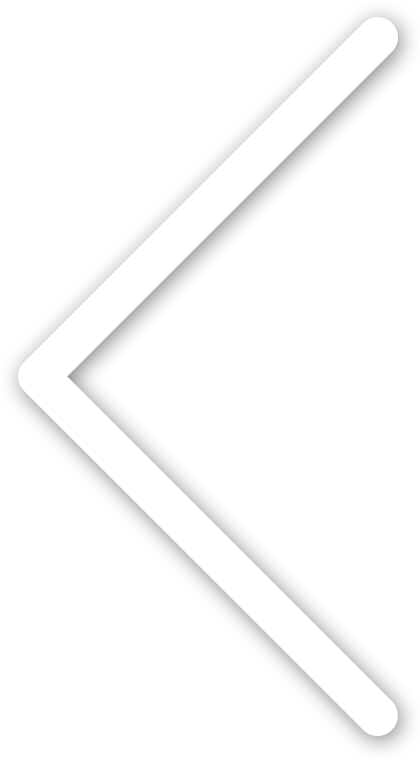
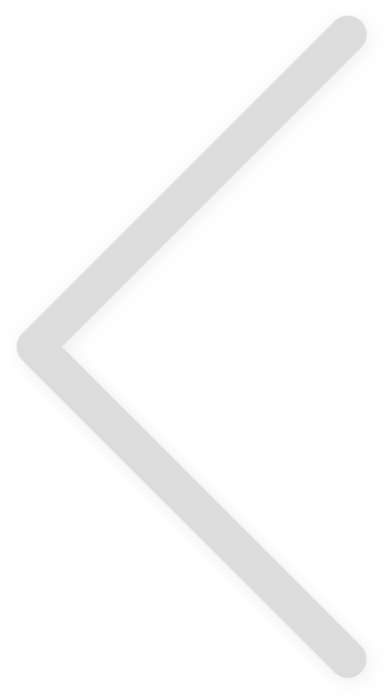
m

Changed region(s): [[0.0312, 0.0, 0.9662, 0.99]]

diff --git a/Admin/admin.js b/Admin/admin.js
@@ -41,19 +41,32 @@ addEventListener("DOMContentLoaded", () => {
             document.getElementById('imagePrev').src = document.getElementsByClassName('imageOpt')[i].src;
         }
     }
-    document.getElementById('imgandtog').onmouseenter = () => {
+    document.getElementById('imgprevdiv').onmouseenter = () => {
         for (let i = 0; i < 2; i++) {
             document.getElementsByClassName('imgToggle')[i].style.visibility = 'visible'
             document.getElementsByClassName('imgToggle')[i].animate([{ opacity: '0' }, { opacity: '1' }], 400)
             document.getElementsByClassName('imgToggle')[i].style.opacity = '1'
         }
     }
-    document.getElementById('imgandtog').onmouseleave = () => {
+    document.getElementById('imgprevdiv').onmouseleave = () => {
         for (let i = 0; i < 2; i++) {
             document.getElementsByClassName('imgToggle')[i].animate([{ opacity: '1' }, { opacity: '0' }], 300)
             document.getElementsByClassName('imgToggle')[i].style.opacity = '0'
         }
     }
+    for (let i = 0; i < 2; i++) {
+        document.getElementsByClassName('imgToggle')[i].onmouseenter = () => {
+            document.getElementsByClassName('imgToggle')[0].style.visibility = 'visible'
+            document.getElementsByClassName('imgToggle')[1].style.visibility = 'visible'
+            document.getElementsByClassName('arrows')[0].src = '../data/leftwh.png'
+            document.getElementsByClassName('arrows')[1].src = '../data/rightwh.png'
+        }
+        document.getElementsByClassName('imgToggle')[i].onmouseleave = () => {
+            document.getElementsByClassName('arrows')[0].src = '../data/left.png'
+            document.getElementsByClassName('arrows')[1].src = '../data/right.png'
+        }
+    }
+    
     document.getElementsByClassName('imgToggle')[0].onclick = function () {
         for (let i = 0; i < imgCounter + 1; i++) {
             if (document.getElementsByClassName('imageOptbut')[i].style.borderWidth == '2px' && i > 0) {

diff --git a/Admin/admin.css b/Admin/admin.css
@@ -109,28 +109,7 @@
 #addProdbut:hover {
     background-color: rgb(55, 105, 255);
 }
-#descPrevtab {
-    margin-left: 700px;
-    line-height: 23px;
-    font-family: sans-serif;
-    color: rgb(50, 50, 50);
-    position: absolute;
-    font-family: -apple-system, BlinkMacSystemFont, 'Segoe UI', Roboto, Oxygen, Ubuntu, Cantarell, 'Open Sans', 'Helvetica Neue', sans-serif;
-}
-.imageOptbut {
-    background-color: transparent;
-    border: solid black 1px;
-    border-radius: 3px;
-    padding: 5px;
-    height: 58px;
-    cursor: pointer;
-    margin-left: 80px;
-    margin-top: 20px;
-    visibility: hidden;
-}
-.imageOpt {
-    width: 45px;
-}
+
 #imagePrev {
     margin-left: 200px;
     margin-top: 150px;
@@ -150,9 +129,28 @@
 .imgToggle:hover {
     color: rgb(170, 170, 170)
 }
-.infotd {
-    padding-left: 150px;
-    padding-right: 150px;
+.imageOptbut {
+    background-color: transparent;
+    border: solid black 1px;
+    border-radius: 3px;
+    padding: 5px;
+    height: 58px;
+    cursor: pointer;
+    margin-left: 80px;
+    margin-top: 20px;
+    visibility: hidden;
+}
+.imageOpt {
+    width: 45px;
+}
+#descPrevtab {
+    margin-left: 850px;
+    margin-right: 150px;
+    line-height: 23px;
+    font-family: sans-serif;
+    color: rgb(50, 50, 50);
+    position: absolute;
+    font-family: -apple-system, BlinkMacSystemFont, 'Segoe UI', Roboto, Oxygen, Ubuntu, Cantarell, 'Open Sans', 'Helvetica Neue', sans-serif;
 }
 #headerPrev {
     font-weight: 500;
@@ -174,7 +172,6 @@
     background-color: transparent;
     border: solid black 1px;
     cursor: pointer;
-    margin-left: 20px;
 }
 .buybut {
     background-color: rgb(40, 90, 255);
@@ -192,11 +189,11 @@
     background-color: rgb(55, 105, 255);
 }
 #orderbut {
-    margin-top: 100px;
-    margin-left: 220px;
+    margin-top: 90px;
+    margin-left: 110px;
 }
 #addcartbut {
-    margin-top: 100px;
+    margin-top: 90px;
     margin-left: 60px;
     width: 120px;
 }

diff --git a/Admin/addproduct.html b/Admin/addproduct.html
@@ -257,14 +257,14 @@
                 </td>
             </tr>
         </table>
-        <div id="imgandtog" style="width: 100px;">
+        <div id="imgprevdiv" style="width: 100px;">
             <img id="imagePrev" src="" alt="image"> <br>
-            <button class="imgToggle" style="margin-left: 201px;"><img src="../data/left.png" style="width: 25px;"
+            <button class="imgToggle" style="margin-left: 201px;"><img class="arrows" src="../data/left.png" style="width: 25px;"
                     alt=""></button>
-            <button class="imgToggle" style="margin-left: 712px;"><img src="../data/right.png" style="width: 25px;"
+            <button class="imgToggle" style="margin-left: 712px;"><img class="arrows" src="../data/right.png" style="width: 25px;"
                     alt=""></button>
         </div>
-        <table id="imageOpttab" style="margin-top: -645px; visibility: hidden;">
+        <table id="imageOpttab" style="margin-top: -575px; visibility: hidden;">
             <tr>
                 <td><button class="imageOptbut"><img class="imageOpt" alt="image"></button></td>
             </tr>
@@ -308,7 +308,7 @@
                 </td>
             </tr>
             <tr>
-                <td id="opttd" style="padding-left: 130px; padding-right: 180px;"></td>
+                <td id="opttd" style="padding-right: 100px;"></td>
             </tr>
             <tr>
                 <td><button class="buybut" id="orderbut">Order</button><button class="buybut" id="addcartbut">Add to
